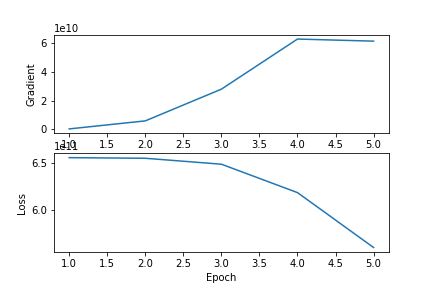
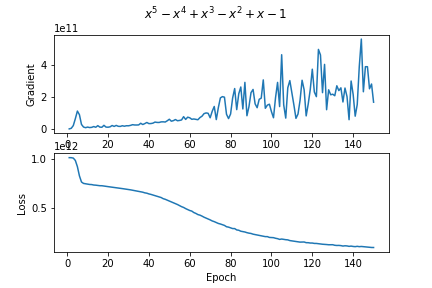
HW1-2 Visualize gradient norm

diff --git a/hw1/hw1-2/observe_gradient_norm.py b/hw1/hw1-2/observe_gradient_norm.py
@@ -12,7 +12,7 @@ import utils
 from model import Model, SimulateFunctionModel
 import numpy as np
 
-EPOCH = 300
+EPOCH = 150
 batch_size = 200
 train_data_size = 5000
 
@@ -81,7 +81,7 @@ with tf.Session(graph= graph) as sess:
 #%%
 import matplotlib.pyplot as plt
 fig1= plt.figure(1)
-plt.title('MNIST')
+plt.suptitle('MNIST')
 plt.subplot(2, 1, 1)
 plt.xlabel('Epoch')
 plt.ylabel('Gradient')
@@ -152,7 +152,7 @@ with tf.Session(graph= graph) as sess:
 #%%
 import matplotlib.pyplot as plt
 fig2= plt.figure(2)
-plt.title('$x^{5}-x^{4}+x^{3}-x^{2}+x-1$')
+plt.suptitle('$x^{5}-x^{4}+x^{3}-x^{2}+x-1$')
 plt.subplot(2, 1, 1)
 plt.xlabel('Epoch')
 plt.ylabel('Gradient')
